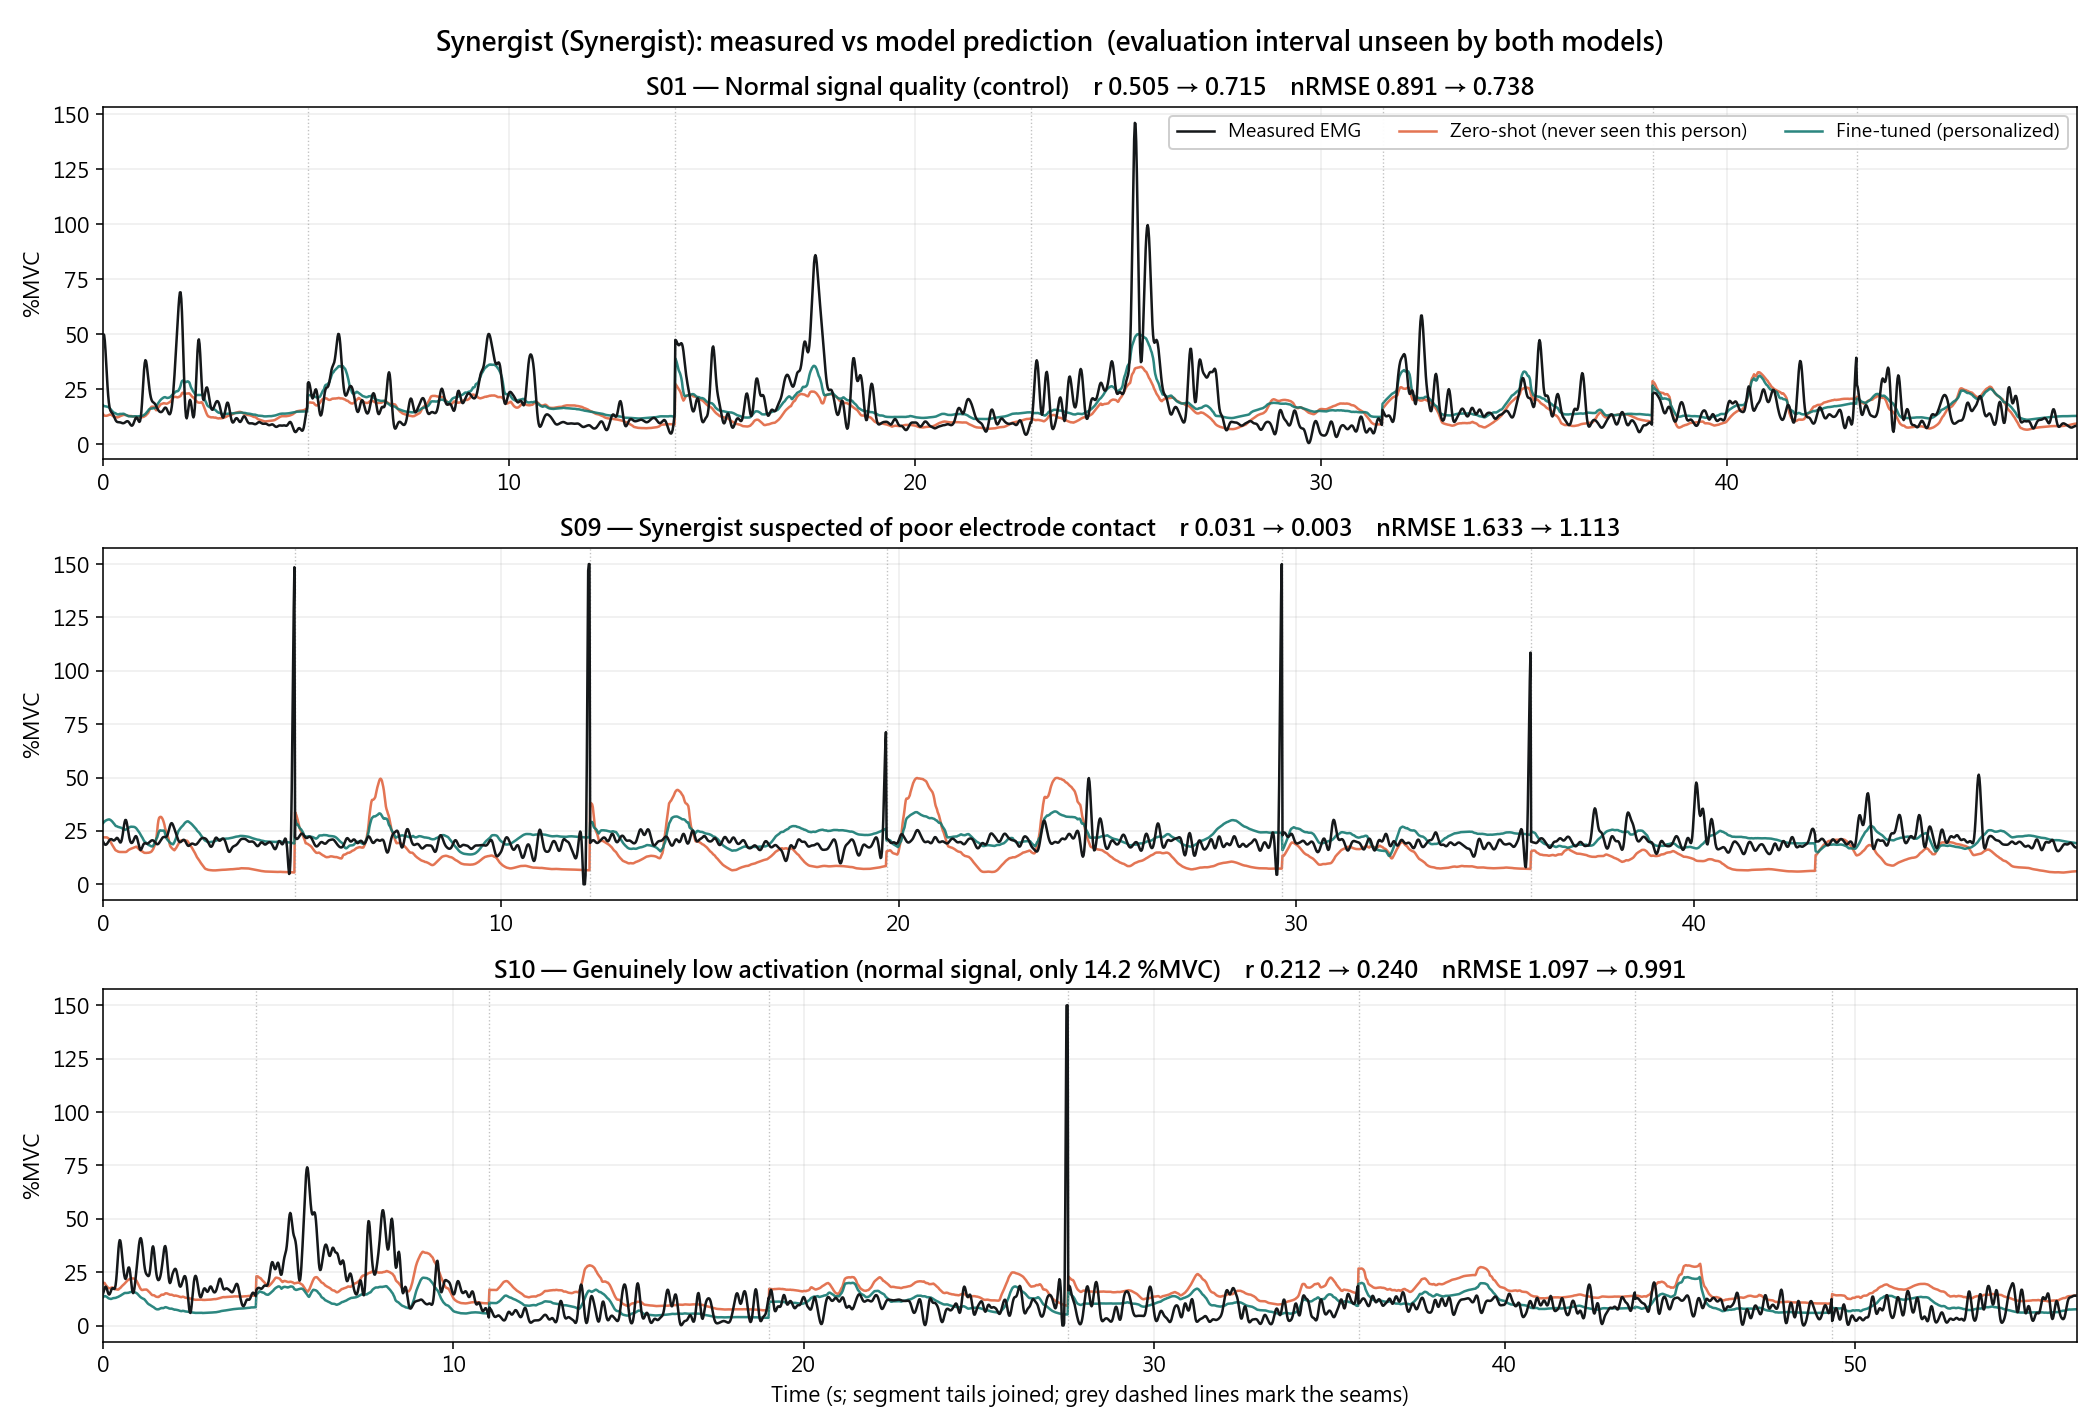
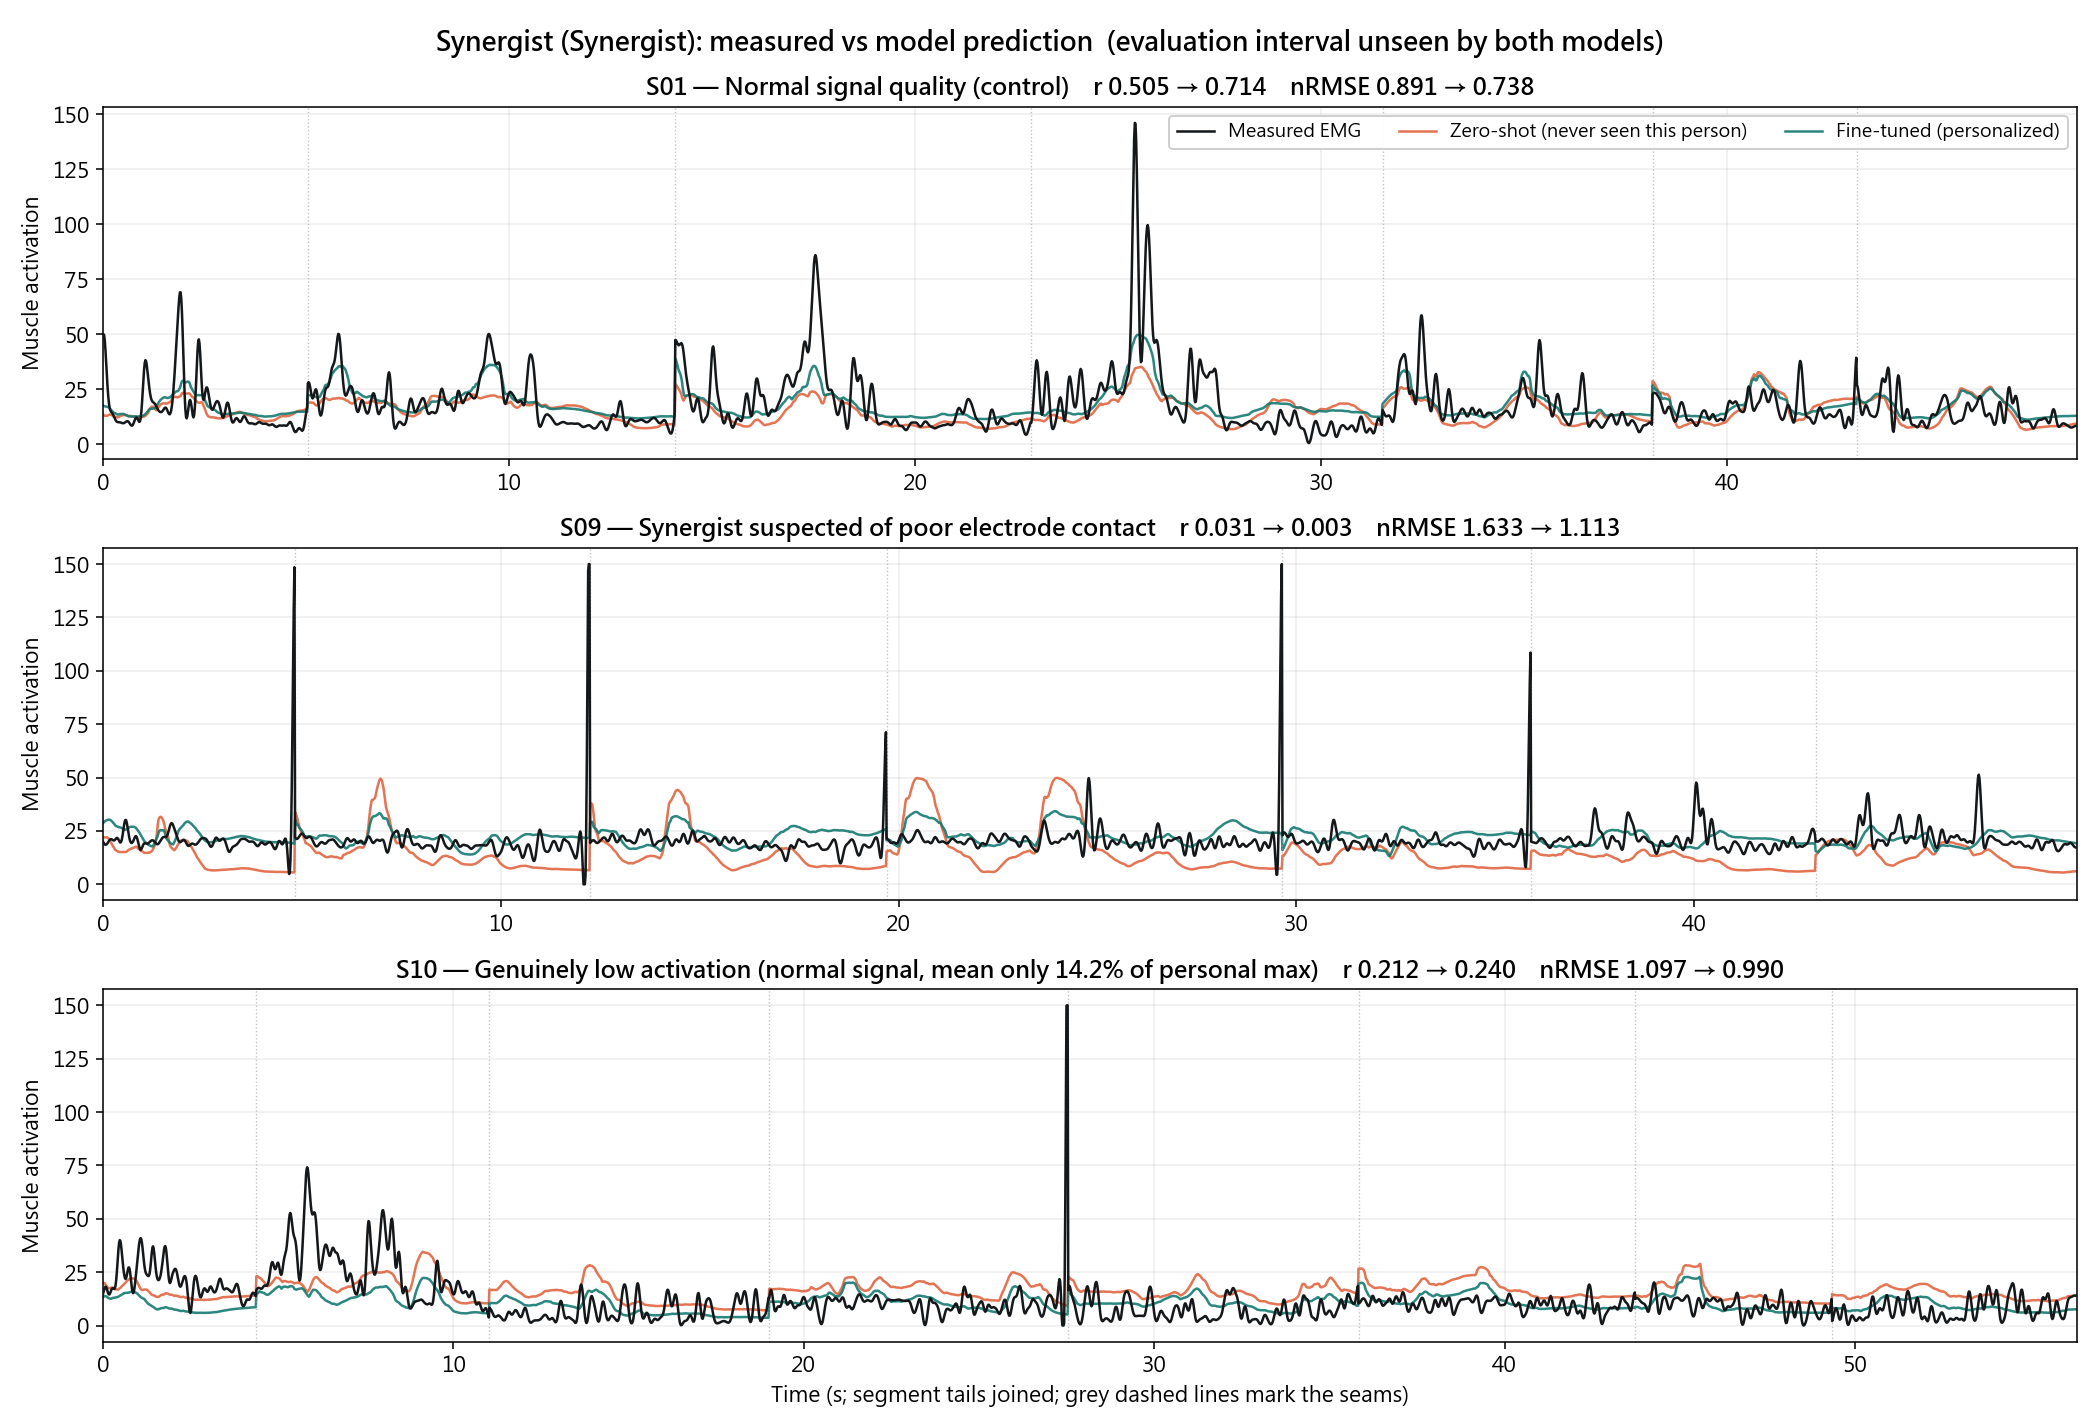
Label figures as "muscle activation" instead of %MVC; fix stale synthetic-ablation reference points
- Plotting programs no longer label axes / captions as %MVC (EMG_*_MVC is not a true %MVC)
- Redrew zs_vs_ft_*, selected_*, slide_waveform and synthetic_ablation
- synthetic_ablation.py: the real-subject and S04 reference points were hard-coded on the
  pre-MVC-fix scale and no longer matched the synthetic cases; they are now computed from
  the current data and LOSO models

diff --git a/experiments/synthetic_ablation.py b/experiments/synthetic_ablation.py
@@ -13,7 +13,7 @@ That is, simply multiplying the ground truth by 0.5 leaves r unchanged to the la
 because it directly proves that "a small synergist amplitude" **alone cannot** cause a low r.
 (MAE shrinks proportionally and nRMSE is unchanged, because the std in the denominator is scaled too.)
 
-So where does S04's r=0.278 come from? A sound physical explanation is **signal-to-noise ratio**:
+So where does S04's low r come from? A sound physical explanation is **signal-to-noise ratio**:
 the weaker the muscle output, the closer the true physiological signal is to the electrode/instrument noise floor,
 the larger the share drowned in noise, and the less of it is predictable. This is the classic
 measurement-error attenuation phenomenon.
@@ -28,7 +28,12 @@ Variant B (scaling + fixed noise floor)        y' = a·y + N(0, σ)
     σ is fixed and does not shrink with a (the noise floor is set by the instrument, independent of output).
     Expected: smaller a → worse SNR → r decreases monotonically.
     Role: test the causal path "low activation → low SNR → low r",
-          and find which (a, σ) reproduces S04's (mean 16.6% MVC, r≈0.278).
+          and find which (a, σ) reproduces S04's (mean activation, zero-shot r).
+
+⚠ 2026-10-05: the reference points of the real subjects (including S04) are now computed on the fly
+   by real_subject_points() from the current data and LOSO models. The old hard-coded values such as
+   (16.6%, r=0.278) were measured before the MVC denominator fix (2026-08-05) and were on a different
+   scale from the corrected synthetic cases.
 
 [What this experiment can and cannot answer]
 -------------------------------------------------------------------------
@@ -81,7 +86,8 @@ HERE = os.path.dirname(os.path.abspath(__file__))
 MODEL_DIR = LOSO_MODEL_DIR          # per-fold LOSO models + scalers
 # use subjects with normal activation as "prototypes", reduce them artificially and see whether they degrade to look like S04
 DONOR_SUBJECTS = ['S07', 'S03', 'S08']
-S04_REF = {'mean_mvc_pct': 16.6, 'r_syn': 0.278}
+# reference points of the real subjects are computed by real_subject_points(), not hard-coded (see the 2026-10-05 note in the header)
+REAL_SUBJECTS = ['S04', 'S06', 'S01', 'S05', 'S08', 'S02', 'S03', 'S07']
 
 SCALES = [1.0, 0.7, 0.5, 0.3, 0.2]
 NOISE_SIGMAS = [0.0, 0.02, 0.05]     # in %MVC units (0.02 = 2% MVC)
@@ -92,6 +98,33 @@ CLIP_HI = 1.5
 RNG = np.random.default_rng(42)
 
 
+def real_subject_points(ts_cols, static_cols):
+    """Each real subject's (mean synergist activation ×100, zero-shot synergist r), computed from current data.
+
+    Exactly the same protocol as the synthetic cases: same windows, last frame of the window as the target,
+    predictions from the same loso_without_{S}.keras. Reads no CSV from results/.
+    """
+    out = []
+    for subj in REAL_SUBJECTS:
+        files = sorted(glob.glob(os.path.join(DATA_DIR, f"{subj}_Seg_*_Combined_Features.csv")))
+        base = os.path.join(MODEL_DIR, f'loso_without_{subj}.keras')
+        if not files or not os.path.exists(base):
+            print(f"⚠ skipping {subj}")
+            continue
+        s_ts = joblib.load(os.path.join(MODEL_DIR, f'loso_scaler_ts_{subj}.pkl'))
+        s_st = joblib.load(os.path.join(MODEL_DIR, f'loso_scaler_static_{subj}.pkl'))
+        dfs = [pd.read_csv(f) for f in files]
+        X, S, Y, _ = make_windows(dfs, ts_cols, static_cols, LABEL_EMG_COLS,
+                                  None, WINDOW_SIZE, STEP_SIZE, s_ts, s_st)
+        model = tf.keras.models.load_model(base)
+        pred = model.predict({'ts_input': X, 'static_input': S}, verbose=0)
+        pred = pred[0] if isinstance(pred, list) else pred
+        tf.keras.backend.clear_session()
+        r = float(np.corrcoef(Y[:, SYN_IDX], pred[:, SYN_IDX])[0, 1])
+        out.append({'subj': subj, 'mvc': float(Y[:, SYN_IDX].mean() * 100), 'r': r})
+    return pd.DataFrame(out)
+
+
 def main():
     for f in ['Microsoft JhengHei', 'SimHei', 'Arial Unicode MS']:
         matplotlib.rcParams['font.sans-serif'] = [f]
@@ -100,6 +133,12 @@ def main():
 
     spec = joblib.load(os.path.join(MODEL_DIR, 'feature_spec.pkl'))
     ts_cols, static_cols = spec['ts_cols'], spec['static_cols']
+
+    real = real_subject_points(ts_cols, static_cols)
+    s04 = real.set_index('subj').loc['S04']
+    S04_REF = {'mean_mvc_pct': s04['mvc'], 'r_syn': s04['r']}
+    print('Real-subject reference points (current data):')
+    print(real.round(3).to_string(index=False))
 
     rows = []
     for subj in DONOR_SUBJECTS:
@@ -163,7 +202,7 @@ def main():
               f" | mean %MVC dropped from {d['mean_mvc_pct'].max():.1f} to {d['mean_mvc_pct'].min():.1f}")
     print("  → amplitude reduced to 1/5 and r barely moves: proof that low amplitude by itself does not lower r.")
 
-    print("\n[Variant B, scaling + noise] Can it reproduce S04's (16.6%MVC, r=0.278)?")
+    print(f"\n[Variant B, scaling + noise] Can it reproduce S04's (mean activation {S04_REF['mean_mvc_pct']:.1f}, r={S04_REF['r_syn']:.3f})?")
     b = df[df['sigma'] > 0].copy()
     b['dist'] = ((b['mean_mvc_pct'] - S04_REF['mean_mvc_pct']) / 10) ** 2 + \
                 (b['r_syn'] - S04_REF['r_syn']) ** 2
@@ -178,16 +217,12 @@ def main():
         d = d.sort_values('scale_a')
         ls = '--' if var.startswith('A') else '-'
         ax.plot(d['scale_a'], d['r_syn'], marker='o', ms=4, ls=ls, label=f"{subj} {var}", alpha=0.8)
-    ax.axhline(S04_REF['r_syn'], color='crimson', lw=1.6, ls=':', label=f"S04 measured r={S04_REF['r_syn']}")
+    ax.axhline(S04_REF['r_syn'], color='crimson', lw=1.6, ls=':', label=f"S04 measured r={S04_REF['r_syn']:.3f}")
     ax.set_xlabel('Amplitude scaling factor a'); ax.set_ylabel('Synergist Pearson r')
     ax.set_title('Variant A (dashed, r unchanged) vs variant B (solid, r falls with SNR)')
     ax.invert_xaxis(); ax.grid(alpha=0.25); ax.legend(fontsize=6.5, ncol=2)
 
     ax = axes[1]
-    real = pd.DataFrame({
-        'subj': ['S04', 'S06', 'S01', 'S05', 'S08', 'S02', 'S03', 'S07'],
-        'mvc': [16.6, 19.9, 21.6, 21.9, 22.4, 23.6, 25.5, 27.3],
-        'r': [0.278, 0.449, 0.412, 0.602, 0.765, 0.532, 0.709, 0.444]})
     bb = df[df['sigma'] > 0]
     ax.scatter(bb['mean_mvc_pct'], bb['r_syn'], s=26, alpha=0.45, label='Synthetic cases (variant B)')
     ax.scatter(real['mvc'], real['r'], s=95, marker='*', color='crimson',
@@ -195,7 +230,7 @@ def main():
     for _, rr in real.iterrows():
         ax.annotate(rr['subj'], (rr['mvc'], rr['r']), fontsize=7,
                     xytext=(3, 3), textcoords='offset points')
-    ax.set_xlabel('Mean synergist %MVC'); ax.set_ylabel('Synergist Pearson r')
+    ax.set_xlabel('Mean synergist muscle activation'); ax.set_ylabel('Synergist Pearson r')
     ax.set_title('Synthetic cases vs actual subjects')
     ax.grid(alpha=0.25); ax.legend(fontsize=8)
 

diff --git a/experiments/plot_selected_subjects.py b/experiments/plot_selected_subjects.py
@@ -50,7 +50,7 @@ PICKS = ['S01', 'S09', 'S10']
 LABELS = {
     'S01': 'Normal signal quality (control)',
     'S09': 'Synergist suspected of poor electrode contact',
-    'S10': 'Genuinely low activation (normal signal, only 14.2 %MVC)',
+    'S10': 'Genuinely low activation (normal signal, mean only 14.2% of personal max)',
 }
 MUSCLE = ['Main muscle (Main)', 'Synergist (Synergist)']
 C_TRUE, C_ZS, C_FT = '#15181a', '#e0623c', '#0f766e'
@@ -93,7 +93,7 @@ def main():
             ax.set_title(f"{s} — {LABELS[s]}    "
                          f"r {rz:.3f} → {rf:.3f}    nRMSE {nz:.3f} → {nf:.3f}",
                          fontweight='bold')
-            ax.set_ylabel('%MVC')
+            ax.set_ylabel('Muscle activation')
             ax.grid(alpha=.22)
             ax.set_xlim(0, min(MAX_SEC, len(r['y']) / FPS))
         axes[0].legend(loc='upper right', ncol=3, fontsize=9.5, framealpha=.95)
@@ -118,9 +118,9 @@ def main():
             lim = [0, max(yt.max(), yp.max(), yf.max()) * 1.02]
             ax.plot(lim, lim, 'k--', lw=1.1, label='Ideal y=x')
             ax.set_xlim(lim); ax.set_ylim(lim)
-            ax.set_xlabel('Measured %MVC'); ax.set_ylabel('Predicted %MVC')
+            ax.set_xlabel('Measured muscle activation'); ax.set_ylabel('Predicted muscle activation')
             bias = yf.mean() - yt.mean()
-            ax.set_title(f"{s} · {MUSCLE[mi]}\nmean bias after fine-tuning {bias:+.1f} %MVC", fontsize=10.5)
+            ax.set_title(f"{s} · {MUSCLE[mi]}\nmean bias after fine-tuning {bias:+.1f}", fontsize=10.5)
             ax.grid(alpha=.2)
             if mi == 0 and ci == 0:
                 lg = ax.legend(fontsize=8.5, loc='upper left')

diff --git a/experiments/train_holdout_two.py b/experiments/train_holdout_two.py
@@ -221,7 +221,7 @@ def main():
                 rr = np.corrcoef(r['yt'][:, mi], r['yp'][:, mi])[0, 1]
                 ax.set_title(f"{s}  Seg{r['seg']} ({r['trc']})   r={rr:.3f}", fontsize=9)
                 ax.set_xlabel('Time (s)', fontsize=8)
-                ax.set_ylabel('%MVC', fontsize=8)
+                ax.set_ylabel('Muscle activation', fontsize=8)
                 ax.tick_params(labelsize=7)
                 ax.grid(alpha=0.2)
                 if si == 0 and ci == 0:
@@ -241,7 +241,7 @@ def main():
         ax.scatter(allt[:, mi], allp[:, mi], s=2, alpha=0.06, color='#0f766e')
         lim = [0, max(allt[:, mi].max(), allp[:, mi].max()) * 1.02]
         ax.plot(lim, lim, 'k--', lw=1, label='Ideal y=x')
-        ax.set_xlabel('Measured %MVC'); ax.set_ylabel('Predicted %MVC')
+        ax.set_xlabel('Measured muscle activation'); ax.set_ylabel('Predicted muscle activation')
         ax.set_title(f"{mname}  r={ov['r'][mi]:.3f}  nRMSE={ov['nrmse'][mi]:.3f}", fontsize=10)
         ax.legend(fontsize=8); ax.grid(alpha=0.2)
 
@@ -250,7 +250,7 @@ def main():
         ax.hist(err, bins=80, color='#0f766e', alpha=0.75)
         ax.axvline(0, color='k', ls='--', lw=1)
         ax.axvline(err.mean(), color='crimson', lw=1.5, label=f'mean bias {err.mean():+.3f}')
-        ax.set_xlabel('Predicted − measured (%MVC)'); ax.set_ylabel('Frames')
+        ax.set_xlabel('Predicted − measured (muscle activation)'); ax.set_ylabel('Frames')
         ax.set_title(f'{mname} error distribution', fontsize=10)
         ax.legend(fontsize=8); ax.grid(alpha=0.2)
     fig.suptitle('Overall prediction quality on the _two validation sets', fontsize=13)

diff --git a/experiments/plot_zeroshot_vs_finetuned.py b/experiments/plot_zeroshot_vs_finetuned.py
@@ -179,7 +179,7 @@ def main():
             ax.set_title(f"{r['subject']}    r {rz:.3f} → {rf:.3f} ({rf-rz:+.3f})   "
                          f"nRMSE {nz:.3f} → {nf:.3f}", fontsize=9.5)
             ax.set_xlabel('Time (s, segment tails joined)', fontsize=8)
-            ax.set_ylabel('%MVC', fontsize=8)
+            ax.set_ylabel('Muscle activation', fontsize=8)
             ax.tick_params(labelsize=7); ax.grid(alpha=0.2)
             if k == 0:
                 ax.legend(fontsize=7.5, loc='upper right', ncol=3)

diff --git a/experiments/finetune_predict_two.py b/experiments/finetune_predict_two.py
@@ -204,7 +204,7 @@ def main():
                 rf = np.corrcoef(r['y'][:, mi], r['ft'][:, mi])[0, 1]
                 ax.set_title(f"{s} · Seg{r['seg']} ({r['trc']})   r {rz:.3f} → {rf:.3f}",
                              fontsize=9.5)
-                ax.set_ylabel('%MVC', fontsize=8.5)
+                ax.set_ylabel('Muscle activation', fontsize=8.5)
                 ax.tick_params(labelsize=7.5)
                 ax.grid(alpha=.22)
                 if si == len(subjects) - 1:

diff --git a/experiments/make_slide_figures.py b/experiments/make_slide_figures.py
@@ -66,7 +66,7 @@ for ax, s in zip(axes, picks):
     tag = 'largest improvement' if s == 'S08' else 'r did not improve, but nRMSE did'
     ax.set_title(f"{s} ({tag})    r {rz:.2f} → {rf:.2f}    nRMSE {nz:.2f} → {nf:.2f}",
                  fontweight='bold')
-    ax.set_ylabel('Synergist %MVC')
+    ax.set_ylabel('Synergist muscle activation')
     ax.grid(alpha=.22)
 axes[0].legend(loc='upper right', ncol=3, framealpha=.95)
 axes[1].set_xlabel('Time (s)')

diff --git a/results/README.md b/results/README.md
@@ -173,6 +173,7 @@ Figures marked “not included” need a full training run to redraw; run the li
 > ⚠ Also, `EMG_*_MVC` itself is **not a true %MVC** (this project has no MVC recordings);
 > it is normalized to the maximum activation observed for that subject, and ×100 only changes the scale, not the meaning.
 > Figure axes / captions must not be labelled “%MVC”; see item 6 of the [root README](../README.md#-read-before-citing-numbers) for details.
+> ✅ The plotting programs now label these axes “muscle activation”, and all figures in this repository use that label.
 
 ---
 
